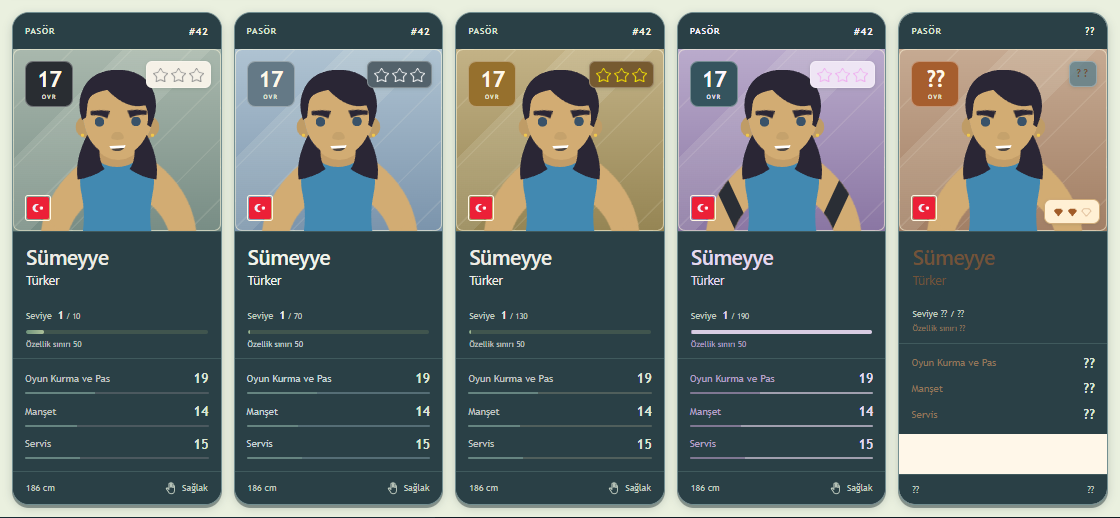
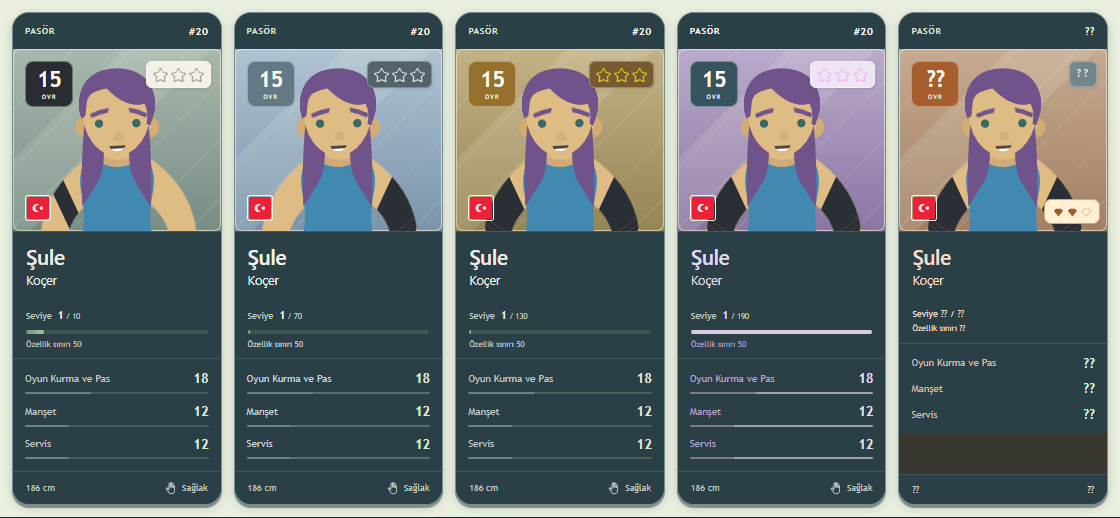
Keep prospect card text readable in dark theme

diff --git a/index-beta.html b/index-beta.html
@@ -1,5 +1,5 @@
 <!doctype html>
-<html lang="tr" class="desktop-beta"><head><script src="desktop-beta-storage.js?v=df309e5c0cea"></script><script src="cheat-defaults.js?v=3f3b429b351f"></script><script src="flow-preview-environment.js?v=bd84173813bd"></script><meta charset="utf-8"><meta name="viewport" content="width=device-width,initial-scale=1,viewport-fit=cover"><meta name="theme-color" content="#72c8e5"><link rel="manifest" href="manifest.webmanifest"><link rel="apple-touch-icon" href="assets/app/apple-touch-icon.png"><meta name="apple-mobile-web-app-capable" content="yes"><meta name="apple-mobile-web-app-title" content="Idle Spiker"><meta name="apple-mobile-web-app-status-bar-style" content="default"><link rel="stylesheet" href="app-display.css?v=07395180a70d"><script src="app-display.js?v=6eab26d2992b" defer></script><title>Idle Spiker · Masaüstü Beta</title><link rel="stylesheet" href="menu.css?v=c016fb44e844"><link rel="stylesheet" href="menu-game.css?v=7f40c8954076"><link rel="stylesheet" href="team.css?v=bcffe6b92c1a"><link rel="stylesheet" href="league-season.css?v=c5e4b44d88a2"><style>#bootScreen{position:fixed;inset:0;max-width:480px;margin-inline:auto;z-index:10000;display:grid;place-content:center;justify-items:center;gap:8px;background:#fff3d7;color:#547c83;font-family:system-ui,sans-serif}#bootScreen strong{order:0;font-size:30px;letter-spacing:2px}#bootScreen strong span{color:#bb995b}#bootScreen p{order:1;font-size:12px;margin:0;color:#819383}#bootPepper{transform:translateZ(0);backface-visibility:hidden;contain:paint;object-fit:contain;order:2;margin-top:12px;visibility:visible;width:260px;height:212px;border:0;background:transparent;pointer-events:none}#bootScreen img{order:-1;margin-bottom:10px;width:48px;height:48px;animation:boot-bounce 1.2s ease-in-out infinite}@keyframes boot-bounce{50%{transform:translateY(-12px) rotate(18deg)}}@media(prefers-reduced-motion:reduce){#bootScreen img{animation:none}}</style><link rel="stylesheet" href="club-journey.css?v=a8162af5edc1"><link rel="stylesheet" href="bal-stage.css?v=03e79f9db703"><script src="season-clock.js?v=c90a74233800"></script><script src="bal-recovery.js?v=59d7a7b23c62"></script><script src="weekly-season-migration.js?v=c91052e58aec"></script><script src="number-ui.js?v=a24b5930e991"></script><link rel="stylesheet" href="theme.css?v=3c0c28bd21fb"><script src="theme.js?v=3046f3da7b5c"></script><link rel="stylesheet" href="achievements.css?v=2a8661c0d2be"><link rel="stylesheet" href="division-three.css?v=ef35af114b54"><link rel="stylesheet" href="social-screen.css?v=0bf69406736d"><link rel="stylesheet" href="league-players.css?v=86e88a43a3b5"><link rel="stylesheet" href="language.css?v=b027c2a552b8"><script src="language-data.js?v=3d3af7f60753"></script><script src="language.js?v=6352cc5dd035"></script><link rel="stylesheet" href="player-skills.css?v=da608137e96c"><link rel="stylesheet" href="styles/ui/player-club-card.css?v=e812955c2ff8"><link rel="stylesheet" href="styles/ui/transfer-center.css?v=80c355595696"><script src="scripts/ui/dialog-navigation.js?v=0988251be4a1" defer></script><link rel="stylesheet" href="social-journey.css?v=381c58c2dc22"><link rel="stylesheet" href="next-match-card.css?v=d739901623ff"><link rel="stylesheet" href="social-follower-counter.css?v=038892551d63"><link rel="stylesheet" href="player-profile.css?v=89c574b694fe"><link rel="stylesheet" href="ui-icons.css?v=b5ce6adfd485"><link rel="stylesheet" href="flow-effects.css?v=f82bf838ab8c"><link rel="stylesheet" href="board-doodles.css?v=85c5f17bdbe1"><link rel="stylesheet" href="board-presentation.css?v=3ae360fc348f"><link rel="stylesheet" href="progression-visuals.css?v=abd1b1d35d38"><link rel="stylesheet" href="flow-lanes.css?v=d6d148cc7fd3"><link rel="stylesheet" href="flow-media-theme.css?v=a959430cbe25"><link rel="stylesheet" href="ui-components.css?v=7b2e2900e58c"><link rel="stylesheet" href="academy.css?v=1f7eb14eaf73"><link rel="stylesheet" href="academy-career.css?v=c24b7b8e9637"><link rel="stylesheet" href="legendary-unlock-preview.css?v=247b90f08604"><script src="point-music-rules.js?v=8ce930b25ffd"></script><link rel="stylesheet" href="desktop-beta.css?v=43345844dd65"></head>
+<html lang="tr" class="desktop-beta"><head><script src="desktop-beta-storage.js?v=df309e5c0cea"></script><script src="cheat-defaults.js?v=3f3b429b351f"></script><script src="flow-preview-environment.js?v=bd84173813bd"></script><meta charset="utf-8"><meta name="viewport" content="width=device-width,initial-scale=1,viewport-fit=cover"><meta name="theme-color" content="#72c8e5"><link rel="manifest" href="manifest.webmanifest"><link rel="apple-touch-icon" href="assets/app/apple-touch-icon.png"><meta name="apple-mobile-web-app-capable" content="yes"><meta name="apple-mobile-web-app-title" content="Idle Spiker"><meta name="apple-mobile-web-app-status-bar-style" content="default"><link rel="stylesheet" href="app-display.css?v=07395180a70d"><script src="app-display.js?v=6eab26d2992b" defer></script><title>Idle Spiker · Masaüstü Beta</title><link rel="stylesheet" href="menu.css?v=c016fb44e844"><link rel="stylesheet" href="menu-game.css?v=7f40c8954076"><link rel="stylesheet" href="team.css?v=bcffe6b92c1a"><link rel="stylesheet" href="league-season.css?v=c5e4b44d88a2"><style>#bootScreen{position:fixed;inset:0;max-width:480px;margin-inline:auto;z-index:10000;display:grid;place-content:center;justify-items:center;gap:8px;background:#fff3d7;color:#547c83;font-family:system-ui,sans-serif}#bootScreen strong{order:0;font-size:30px;letter-spacing:2px}#bootScreen strong span{color:#bb995b}#bootScreen p{order:1;font-size:12px;margin:0;color:#819383}#bootPepper{transform:translateZ(0);backface-visibility:hidden;contain:paint;object-fit:contain;order:2;margin-top:12px;visibility:visible;width:260px;height:212px;border:0;background:transparent;pointer-events:none}#bootScreen img{order:-1;margin-bottom:10px;width:48px;height:48px;animation:boot-bounce 1.2s ease-in-out infinite}@keyframes boot-bounce{50%{transform:translateY(-12px) rotate(18deg)}}@media(prefers-reduced-motion:reduce){#bootScreen img{animation:none}}</style><link rel="stylesheet" href="club-journey.css?v=a8162af5edc1"><link rel="stylesheet" href="bal-stage.css?v=03e79f9db703"><script src="season-clock.js?v=c90a74233800"></script><script src="bal-recovery.js?v=59d7a7b23c62"></script><script src="weekly-season-migration.js?v=c91052e58aec"></script><script src="number-ui.js?v=a24b5930e991"></script><link rel="stylesheet" href="theme.css?v=3c0c28bd21fb"><script src="theme.js?v=3046f3da7b5c"></script><link rel="stylesheet" href="achievements.css?v=2a8661c0d2be"><link rel="stylesheet" href="division-three.css?v=ef35af114b54"><link rel="stylesheet" href="social-screen.css?v=0bf69406736d"><link rel="stylesheet" href="league-players.css?v=86e88a43a3b5"><link rel="stylesheet" href="language.css?v=b027c2a552b8"><script src="language-data.js?v=3d3af7f60753"></script><script src="language.js?v=6352cc5dd035"></script><link rel="stylesheet" href="player-skills.css?v=da608137e96c"><link rel="stylesheet" href="styles/ui/player-club-card.css?v=a569e8104e01"><link rel="stylesheet" href="styles/ui/transfer-center.css?v=80c355595696"><script src="scripts/ui/dialog-navigation.js?v=0988251be4a1" defer></script><link rel="stylesheet" href="social-journey.css?v=381c58c2dc22"><link rel="stylesheet" href="next-match-card.css?v=d739901623ff"><link rel="stylesheet" href="social-follower-counter.css?v=038892551d63"><link rel="stylesheet" href="player-profile.css?v=89c574b694fe"><link rel="stylesheet" href="ui-icons.css?v=b5ce6adfd485"><link rel="stylesheet" href="flow-effects.css?v=f82bf838ab8c"><link rel="stylesheet" href="board-doodles.css?v=85c5f17bdbe1"><link rel="stylesheet" href="board-presentation.css?v=3ae360fc348f"><link rel="stylesheet" href="progression-visuals.css?v=abd1b1d35d38"><link rel="stylesheet" href="flow-lanes.css?v=d6d148cc7fd3"><link rel="stylesheet" href="flow-media-theme.css?v=a959430cbe25"><link rel="stylesheet" href="ui-components.css?v=7b2e2900e58c"><link rel="stylesheet" href="academy.css?v=1f7eb14eaf73"><link rel="stylesheet" href="academy-career.css?v=c24b7b8e9637"><link rel="stylesheet" href="legendary-unlock-preview.css?v=247b90f08604"><script src="point-music-rules.js?v=8ce930b25ffd"></script><link rel="stylesheet" href="desktop-beta.css?v=43345844dd65"></head>
 <body><div id="bootScreen" role="status" aria-live="polite"><img src="assets/balls/atlas-1.png" alt="" width="48" height="48"><strong>IDLE<span>SPIKER</span></strong><p>Kulüp hazırlanıyor…</p></div><script>window.bootStartedAt=performance.now();window.bootFallback=setTimeout(function(){document.getElementById("bootScreen")?.remove()},10000)</script><div class="shell"><aside class="rail"><a class="brand" href="index-beta.html" aria-label="Idle Spiker ana menü"><svg viewBox="0 0 40 40" aria-hidden="true"><circle cx="20" cy="20" r="15"/><path d="M7 13q15 0 18 22M19 5q-5 13-12 19M34 17q-12-3-19 13"/></svg></a><span class="rail-word">IDLE SPIKER</span><a class="rail-icon active" href="index-beta.html" aria-label="Kulüp merkezi" title="Kulüp merkezi">⌂</a><span class="rail-bottom">01 / CLUB</span></aside>
 <div class="content"><header class="topbar"><a href="index-beta.html" class="wordmark">IDLE<span>SPIKER</span><small>VOLEYBOL KULÜBÜ</small></a><nav aria-label="Ana gezinme"><span class="nav-current">Kulüp merkezi</span></nav><button id="settingsButton" class="settings-button" type="button" aria-label="Ayarları aç">⚙ Ayarlar</button></header>
 <main><div class="dashboard"><section id="clubPanel" class="club-panel" aria-label="Kulüp departmanları"><div class="section-top"><div><span class="eyebrow">BİZİM KULÜP · AŞAMA 1</span></div></div>

diff --git a/index.html b/index.html
@@ -1,5 +1,5 @@
 <!doctype html>
-<html lang="tr"><head><script src="cheat-defaults.js?v=3f3b429b351f"></script><script src="flow-preview-environment.js?v=bd84173813bd"></script><meta charset="utf-8"><meta name="viewport" content="width=device-width,initial-scale=1,viewport-fit=cover"><meta name="theme-color" content="#72c8e5"><link rel="manifest" href="manifest.webmanifest"><link rel="apple-touch-icon" href="assets/app/apple-touch-icon.png"><meta name="apple-mobile-web-app-capable" content="yes"><meta name="apple-mobile-web-app-title" content="Idle Spiker"><meta name="apple-mobile-web-app-status-bar-style" content="default"><link rel="stylesheet" href="app-display.css?v=07395180a70d"><script src="app-display.js?v=6eab26d2992b" defer></script><title>Idle Spiker · Kulüp Merkezi</title><link rel="stylesheet" href="menu.css?v=c016fb44e844"><link rel="stylesheet" href="menu-game.css?v=7f40c8954076"><link rel="stylesheet" href="team.css?v=bcffe6b92c1a"><link rel="stylesheet" href="league-season.css?v=c5e4b44d88a2"><style>#bootScreen{position:fixed;inset:0;max-width:480px;margin-inline:auto;z-index:10000;display:grid;place-content:center;justify-items:center;gap:8px;background:#fff3d7;color:#547c83;font-family:system-ui,sans-serif}#bootScreen strong{order:0;font-size:30px;letter-spacing:2px}#bootScreen strong span{color:#bb995b}#bootScreen p{order:1;font-size:12px;margin:0;color:#819383}#bootPepper{transform:translateZ(0);backface-visibility:hidden;contain:paint;object-fit:contain;order:2;margin-top:12px;visibility:visible;width:260px;height:212px;border:0;background:transparent;pointer-events:none}#bootScreen img{order:-1;margin-bottom:10px;width:48px;height:48px;animation:boot-bounce 1.2s ease-in-out infinite}@keyframes boot-bounce{50%{transform:translateY(-12px) rotate(18deg)}}@media(prefers-reduced-motion:reduce){#bootScreen img{animation:none}}</style><link rel="stylesheet" href="club-journey.css?v=a8162af5edc1"><link rel="stylesheet" href="bal-stage.css?v=03e79f9db703"><script src="season-clock.js?v=c90a74233800"></script><script src="bal-recovery.js?v=59d7a7b23c62"></script><script src="weekly-season-migration.js?v=c91052e58aec"></script><script src="number-ui.js?v=a24b5930e991"></script><link rel="stylesheet" href="theme.css?v=3c0c28bd21fb"><script src="theme.js?v=3046f3da7b5c"></script><link rel="stylesheet" href="achievements.css?v=2a8661c0d2be"><link rel="stylesheet" href="division-three.css?v=ef35af114b54"><link rel="stylesheet" href="social-screen.css?v=0bf69406736d"><link rel="stylesheet" href="league-players.css?v=86e88a43a3b5"><link rel="stylesheet" href="language.css?v=b027c2a552b8"><script src="language-data.js?v=3d3af7f60753"></script><script src="language.js?v=6352cc5dd035"></script><link rel="stylesheet" href="player-skills.css?v=da608137e96c"><link rel="stylesheet" href="styles/ui/player-club-card.css?v=e812955c2ff8"><link rel="stylesheet" href="styles/ui/transfer-center.css?v=80c355595696"><script src="scripts/ui/dialog-navigation.js?v=0988251be4a1" defer></script><link rel="stylesheet" href="social-journey.css?v=381c58c2dc22"><link rel="stylesheet" href="next-match-card.css?v=d739901623ff"><link rel="stylesheet" href="social-follower-counter.css?v=038892551d63"><link rel="stylesheet" href="player-profile.css?v=89c574b694fe"><link rel="stylesheet" href="ui-icons.css?v=b5ce6adfd485"><link rel="stylesheet" href="flow-effects.css?v=f82bf838ab8c"><link rel="stylesheet" href="board-doodles.css?v=85c5f17bdbe1"><link rel="stylesheet" href="board-presentation.css?v=3ae360fc348f"><link rel="stylesheet" href="progression-visuals.css?v=abd1b1d35d38"><link rel="stylesheet" href="flow-lanes.css?v=d6d148cc7fd3"><link rel="stylesheet" href="flow-media-theme.css?v=a959430cbe25"><link rel="stylesheet" href="ui-components.css?v=7b2e2900e58c"><link rel="stylesheet" href="academy.css?v=1f7eb14eaf73"><link rel="stylesheet" href="academy-career.css?v=c24b7b8e9637"><link rel="stylesheet" href="legendary-unlock-preview.css?v=247b90f08604"><script src="point-music-rules.js?v=8ce930b25ffd"></script><link rel="stylesheet" href="playtest-recorder.css?v=6bbab40bb134"></head>
+<html lang="tr"><head><script src="cheat-defaults.js?v=3f3b429b351f"></script><script src="flow-preview-environment.js?v=bd84173813bd"></script><meta charset="utf-8"><meta name="viewport" content="width=device-width,initial-scale=1,viewport-fit=cover"><meta name="theme-color" content="#72c8e5"><link rel="manifest" href="manifest.webmanifest"><link rel="apple-touch-icon" href="assets/app/apple-touch-icon.png"><meta name="apple-mobile-web-app-capable" content="yes"><meta name="apple-mobile-web-app-title" content="Idle Spiker"><meta name="apple-mobile-web-app-status-bar-style" content="default"><link rel="stylesheet" href="app-display.css?v=07395180a70d"><script src="app-display.js?v=6eab26d2992b" defer></script><title>Idle Spiker · Kulüp Merkezi</title><link rel="stylesheet" href="menu.css?v=c016fb44e844"><link rel="stylesheet" href="menu-game.css?v=7f40c8954076"><link rel="stylesheet" href="team.css?v=bcffe6b92c1a"><link rel="stylesheet" href="league-season.css?v=c5e4b44d88a2"><style>#bootScreen{position:fixed;inset:0;max-width:480px;margin-inline:auto;z-index:10000;display:grid;place-content:center;justify-items:center;gap:8px;background:#fff3d7;color:#547c83;font-family:system-ui,sans-serif}#bootScreen strong{order:0;font-size:30px;letter-spacing:2px}#bootScreen strong span{color:#bb995b}#bootScreen p{order:1;font-size:12px;margin:0;color:#819383}#bootPepper{transform:translateZ(0);backface-visibility:hidden;contain:paint;object-fit:contain;order:2;margin-top:12px;visibility:visible;width:260px;height:212px;border:0;background:transparent;pointer-events:none}#bootScreen img{order:-1;margin-bottom:10px;width:48px;height:48px;animation:boot-bounce 1.2s ease-in-out infinite}@keyframes boot-bounce{50%{transform:translateY(-12px) rotate(18deg)}}@media(prefers-reduced-motion:reduce){#bootScreen img{animation:none}}</style><link rel="stylesheet" href="club-journey.css?v=a8162af5edc1"><link rel="stylesheet" href="bal-stage.css?v=03e79f9db703"><script src="season-clock.js?v=c90a74233800"></script><script src="bal-recovery.js?v=59d7a7b23c62"></script><script src="weekly-season-migration.js?v=c91052e58aec"></script><script src="number-ui.js?v=a24b5930e991"></script><link rel="stylesheet" href="theme.css?v=3c0c28bd21fb"><script src="theme.js?v=3046f3da7b5c"></script><link rel="stylesheet" href="achievements.css?v=2a8661c0d2be"><link rel="stylesheet" href="division-three.css?v=ef35af114b54"><link rel="stylesheet" href="social-screen.css?v=0bf69406736d"><link rel="stylesheet" href="league-players.css?v=86e88a43a3b5"><link rel="stylesheet" href="language.css?v=b027c2a552b8"><script src="language-data.js?v=3d3af7f60753"></script><script src="language.js?v=6352cc5dd035"></script><link rel="stylesheet" href="player-skills.css?v=da608137e96c"><link rel="stylesheet" href="styles/ui/player-club-card.css?v=a569e8104e01"><link rel="stylesheet" href="styles/ui/transfer-center.css?v=80c355595696"><script src="scripts/ui/dialog-navigation.js?v=0988251be4a1" defer></script><link rel="stylesheet" href="social-journey.css?v=381c58c2dc22"><link rel="stylesheet" href="next-match-card.css?v=d739901623ff"><link rel="stylesheet" href="social-follower-counter.css?v=038892551d63"><link rel="stylesheet" href="player-profile.css?v=89c574b694fe"><link rel="stylesheet" href="ui-icons.css?v=b5ce6adfd485"><link rel="stylesheet" href="flow-effects.css?v=f82bf838ab8c"><link rel="stylesheet" href="board-doodles.css?v=85c5f17bdbe1"><link rel="stylesheet" href="board-presentation.css?v=3ae360fc348f"><link rel="stylesheet" href="progression-visuals.css?v=abd1b1d35d38"><link rel="stylesheet" href="flow-lanes.css?v=d6d148cc7fd3"><link rel="stylesheet" href="flow-media-theme.css?v=a959430cbe25"><link rel="stylesheet" href="ui-components.css?v=7b2e2900e58c"><link rel="stylesheet" href="academy.css?v=1f7eb14eaf73"><link rel="stylesheet" href="academy-career.css?v=c24b7b8e9637"><link rel="stylesheet" href="legendary-unlock-preview.css?v=247b90f08604"><script src="point-music-rules.js?v=8ce930b25ffd"></script><link rel="stylesheet" href="playtest-recorder.css?v=6bbab40bb134"></head>
 <body><div id="bootScreen" role="status" aria-live="polite"><img src="assets/balls/atlas-1.png" alt="" width="48" height="48"><strong>IDLE<span>SPIKER</span></strong><p>Kulüp hazırlanıyor…</p></div><script>window.bootStartedAt=performance.now();window.bootFallback=setTimeout(function(){document.getElementById("bootScreen")?.remove()},10000)</script><div class="shell"><aside class="rail"><a class="brand" href="index.html" aria-label="Idle Spiker ana menü"><svg viewBox="0 0 40 40" aria-hidden="true"><circle cx="20" cy="20" r="15"/><path d="M7 13q15 0 18 22M19 5q-5 13-12 19M34 17q-12-3-19 13"/></svg></a><span class="rail-word">IDLE SPIKER</span><a class="rail-icon active" href="index.html" aria-label="Kulüp merkezi" title="Kulüp merkezi">⌂</a><span class="rail-bottom">01 / CLUB</span></aside>
 <div class="content"><header class="topbar"><a href="index.html" class="wordmark">IDLE<span>SPIKER</span><small>VOLEYBOL KULÜBÜ</small></a><nav aria-label="Ana gezinme"><span class="nav-current">Kulüp merkezi</span></nav><button id="settingsButton" class="settings-button" type="button" aria-label="Ayarları aç">⚙ Ayarlar</button></header>
 <main><div class="dashboard"><section id="clubPanel" class="club-panel" aria-label="Kulüp departmanları"><div class="section-top"><div><span class="eyebrow">BİZİM KULÜP · AŞAMA 1</span></div></div>

diff --git a/card-design-preview.html b/card-design-preview.html
@@ -1,1 +1,1 @@
-<!doctype html><html lang="tr" class="elite-preview-page"><head><meta charset="utf-8"><meta name="viewport" content="width=device-width,initial-scale=1"><title>Oyuncu kartı tasarımları</title><link rel="stylesheet" href="team.css?v=bcffe6b92c1a"><link rel="stylesheet" href="styles/ui/player-club-card.css?v=e812955c2ff8"><link rel="stylesheet" href="styles/ui/transfer-center.css?v=80c355595696"><link rel="stylesheet" href="ui-components.css?v=7b2e2900e58c"><link rel="stylesheet" href="elite-design-preview.css?v=8690d2b240a5"></head><body><main id="scoutDialog"><section aria-labelledby="cardSeriesTitle"><header class="card-lab-heading"><small>KARTIN GÖRSEL GELİŞİMİ</small><h2 id="cardSeriesTitle">Siyah · Gümüş · Altın · Mor</h2><p>Aynı oyuncu ve aynı OVR. Aşamalar, kartın görünüşünü karşılaştırmak içindir.</p></header><div id="cardProgression" class="card-lab-grid"></div></section><section aria-labelledby="potentialTitle"><header class="card-lab-heading"><small>AKADEMİ · POTANSİYELLİ GENÇLER</small><h2 id="potentialTitle">Geleceği henüz belli değil.</h2><p>Şimdiki OVR görünür. Mezuniyet gücü: ???</p></header><div id="eliteOptions" class="card-lab-grid"></div></section></main><script src="ui-icons-data.js?v=6804bbcfcd59"></script><script src="prospect-potential-rules.js?v=d08455300ece"></script><script src="player-card-presentation.js?v=ab24a8ee8f09"></script><script src="card-lab-template.js?v=f9ce24745e08"></script><script src="elite-design-preview.js?v=c67fcf020e1e"></script></body></html>
+<!doctype html><html lang="tr" class="elite-preview-page"><head><meta charset="utf-8"><meta name="viewport" content="width=device-width,initial-scale=1"><title>Oyuncu kartı tasarımları</title><link rel="stylesheet" href="team.css?v=bcffe6b92c1a"><link rel="stylesheet" href="styles/ui/player-club-card.css?v=a569e8104e01"><link rel="stylesheet" href="styles/ui/transfer-center.css?v=80c355595696"><link rel="stylesheet" href="ui-components.css?v=7b2e2900e58c"><link rel="stylesheet" href="elite-design-preview.css?v=8690d2b240a5"></head><body><main id="scoutDialog"><section aria-labelledby="cardSeriesTitle"><header class="card-lab-heading"><small>KARTIN GÖRSEL GELİŞİMİ</small><h2 id="cardSeriesTitle">Siyah · Gümüş · Altın · Mor</h2><p>Aynı oyuncu ve aynı OVR. Aşamalar, kartın görünüşünü karşılaştırmak içindir.</p></header><div id="cardProgression" class="card-lab-grid"></div></section><section aria-labelledby="potentialTitle"><header class="card-lab-heading"><small>AKADEMİ · POTANSİYELLİ GENÇLER</small><h2 id="potentialTitle">Geleceği henüz belli değil.</h2><p>Şimdiki OVR görünür. Mezuniyet gücü: ???</p></header><div id="eliteOptions" class="card-lab-grid"></div></section></main><script src="ui-icons-data.js?v=6804bbcfcd59"></script><script src="prospect-potential-rules.js?v=d08455300ece"></script><script src="player-card-presentation.js?v=ab24a8ee8f09"></script><script src="card-lab-template.js?v=f9ce24745e08"></script><script src="elite-design-preview.js?v=c67fcf020e1e"></script></body></html>

diff --git a/styles/ui/player-club-card.css b/styles/ui/player-club-card.css
@@ -203,3 +203,7 @@ html:not(.elite-preview-page) .player-card.player-card .card-art::before{content
 html:not(.elite-preview-page) .player-card.player-card .card-halo,html:not(.elite-preview-page) .player-card.player-card .card-art::after{display:none!important}
 #scoutDialog .player-card>button.scout-compare{background:transparent!important;border:0!important;box-shadow:none!important;color:var(--club-ink)!important}
 #scoutDialog .player-card>.scout-hire:disabled{background:transparent!important;border:1px solid var(--club-line)!important;box-shadow:none!important;color:var(--club-muted)!important;opacity:.6;font-weight:500!important}
+
+html[data-theme=dark]:not(.elite-preview-page) .player-card.potential-player[data-prospect="unknown"]{--club-paper:#39352f;--club-soft:#484038;--club-name:#493b31;--club-ink:#f2dfc9;--club-muted:#d3bea5;--club-line:#74604b;--club-action:#554638;--potential-name-ink:#f2dfc9;--potential-accent:#e3b47f}
+html[data-theme=dark] .player-card[data-prospect="unknown"] :is(.card-name,.card-name *,.card-cap,.card-cap small,.card-physical){color:var(--club-ink)!important}
+html[data-theme=dark] .player-card[data-prospect="unknown"] .player-skill-strip{background:var(--club-paper)!important;color:var(--club-muted)!important}

diff --git a/DESIGN-SYSTEM.md b/DESIGN-SYSTEM.md
@@ -1009,3 +1009,5 @@ Ek doğrulama: test-request-followups.cjs gerçek sosyal medya işiyle geçişte
 29 Ekim üretim onayı: C — Kulüp afişi tüm üretim oyuncu kartlarında aktif. Siyah adaçayı-grafit, gümüş çelik mavi, altın mat altın, mor lavanta, potansiyel sıcak bakır paletindedir. Zemin üstünde hafif diyagonal alan/çizgiler vardır; statik CSS, yeni resim veya animasyon yoktur. Açık/koyu temada portre paleti sabit kalır, kart gövdesi mevcut tema kurallarını izler. Halo ve eski taban gölgesi kaldırılır. Arka plan katmanı z-index 0, portre 1, OVR/yıldızlar 3; pointer-events none. Transferde morun kapalı düğmesi ve karşılaştırma düğmesi ortak stille eşitlenir; aktif satın alma/yükseltme durumları korunur.
 
 Üretim doğrulaması: test-production-card-backdrops.cjs gerçek TeamView.transferCard ile beş farklı zemin, her kartta diyagonal/noninteractive katman, açık/koyu tema ve 320/390px içerik taşması kontrolünü geçti. test-card-tiers-and-prospects.cjs kademe/yıldız ve transfer karşılaştırmasında gizli bilgiyi; test-player-jersey-front.cjs gerçek BAL kadrosunu geçti. card-backdrops-production-light/dark.png ve jersey-roster-mobile.png incelendi.
+
+Koyu tema ek uyumluluk: Potansiyel kartların bakır isim/ikincil yazıları koyu gövde üzerinde açık krem tonlarına çevrilir; maskeli yetenek alanı aynı koyu kâğıdı kullanır. Ten/portre paleti değişmez.
